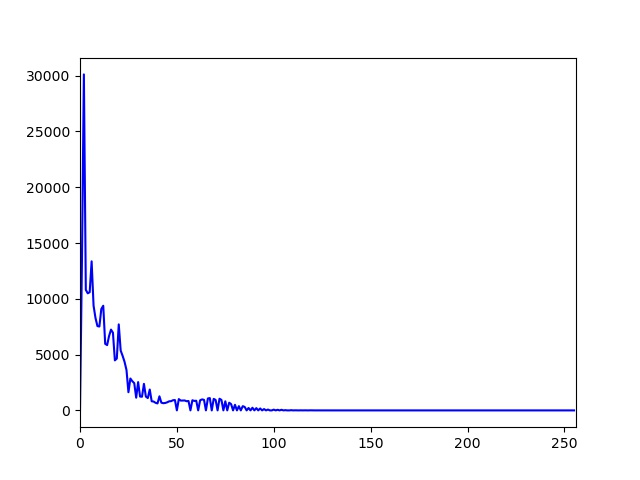
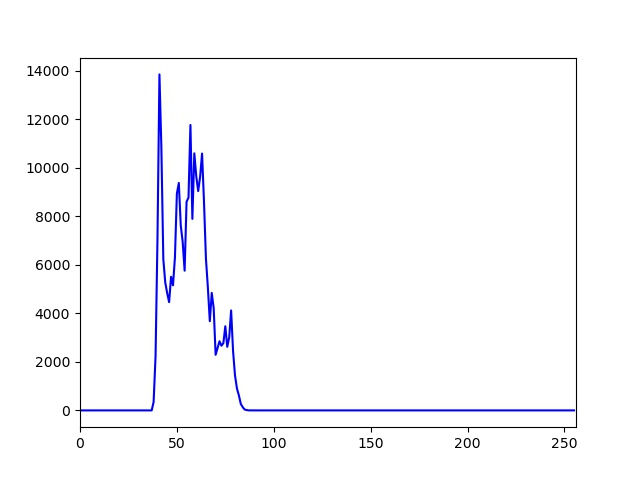
Apply LUT

Changed region(s): [[0.0312, 0.125, 0.4375, 0.875], [0.0625, 0.7188, 0.125, 0.7812]]

diff --git a/Exercise_2/HistogramManipulation.py b/Exercise_2/HistogramManipulation.py
@@ -3,10 +3,14 @@ import numpy as np
 import Utilities
 from matplotlib import pyplot as plt
 
+
 # function to apply a look-up table onto an image
 def applyLUT(img, LUT):
     result = img.copy()
 
+    for i in range(result.shape[0]):
+        for j in range(result.shape[1]):
+            result[i, j] = LUT[result[i, j]]
 
     return result
 
@@ -17,17 +21,17 @@ def equalizeHistogram(img):
 
     L = 256
     N = result.size
+    LUT = np.arange(256)
 
     hist = cv2.calcHist([result], [0], None, [L], [0, L])
     integral = hist.cumsum()
     #print('integ: ', integral)
 
-    for i in range(result.shape[0]):
-        for j in range(result.shape[1]):
-            result[i, j] = ((L - 1) / N) * integral[result[i, j]]
+    for i in range(LUT.size):
+            LUT[i] = ((L - 1) / N) * integral[LUT[i]]
 
     print("Histogram equalized")
-    return result
+    return applyLUT(result, LUT)
 
 
 # function to stretch a grayscale image
@@ -37,13 +41,13 @@ def stretchHistogram(img):
     min = np.min(result)
     max = np.max(result)
     L = 256
+    LUT = np.arange(256)
 
-    for i in range(result.shape[0]):
-        for j in range(result.shape[1]):
-            result[i, j] = ((result[i, j] - min) / (max - min)) * (L - 1)
+    for i in range(LUT.size):
+            LUT[i] = ((LUT[i] - min) / (max - min)) * (L - 1)
 
     print("Histogram stretched")
-    return result
+    return applyLUT(result, LUT)
 
 
 # function to create a vector containing the histogram
@@ -53,50 +57,57 @@ def calculateHistogram(img, nrBins):
 
     return histogram
 
+
 def logImg(img):
     result = img.copy()
 
-    for i in range(result.shape[1]):
-         for j in range(result.shape[0]):
-             result[i, j] = 46 * np.log(result[i, j] + 1)
+    LUT = np.arange(256)
+
+    for i in range(LUT.size):
+             LUT[i] = (255 / np.log(255)) * np.log(LUT[i] + 1)
 
 
     print("Histogram logarithmisch")
-    return result
+    return applyLUT(result, LUT)
+
 
 def expoImg(img):
     result = img.copy()
 
-    for i in range(result.shape[1]):
-        for j in range(result.shape[0]):
-            result[i, j] = 2 * np.exp((result[i, j]/46) - 1)
+    LUT = np.arange(256)
+
+    for i in range(LUT.size):
+            LUT[i] = (255 / np.exp(255/255)) * np.exp(LUT[i]/255 - 1)
 
     print("Histogram exponentiell")
-    return result
+    return applyLUT(result, LUT)
 
 
 def invImg(img):
     result = img.copy()
 
-    for i in range(result.shape[1]):
-        for j in range(result.shape[0]):
-            result[i, j] = 255 - result[i, j]
+    LUT = np.arange(256)
+
+    for i in range(LUT.size):
+            LUT[i] = 255 - LUT[i]
 
     print("Histogram inverse")
-    return result
+    return applyLUT(result, LUT)
 
 
 def threshImg(img):
     result = img.copy()
 
-    for i in range(result.shape[1]):
-        for j in range(result.shape[0]):
-            if result[i, j] > 128:
-                result[i, j] = 255
-            else: result[i, j] = 0
+    LUT = np.arange(256)
+
+    for i in range(LUT.size):
+            if LUT[i] > 128:
+                LUT[i] = 255
+            else: LUT[i] = 0
 
     print("Histogram threshold")
-    return result
+    return applyLUT(result, LUT)
+
 
 def fillgaps(img, name):
     result = img.copy()
